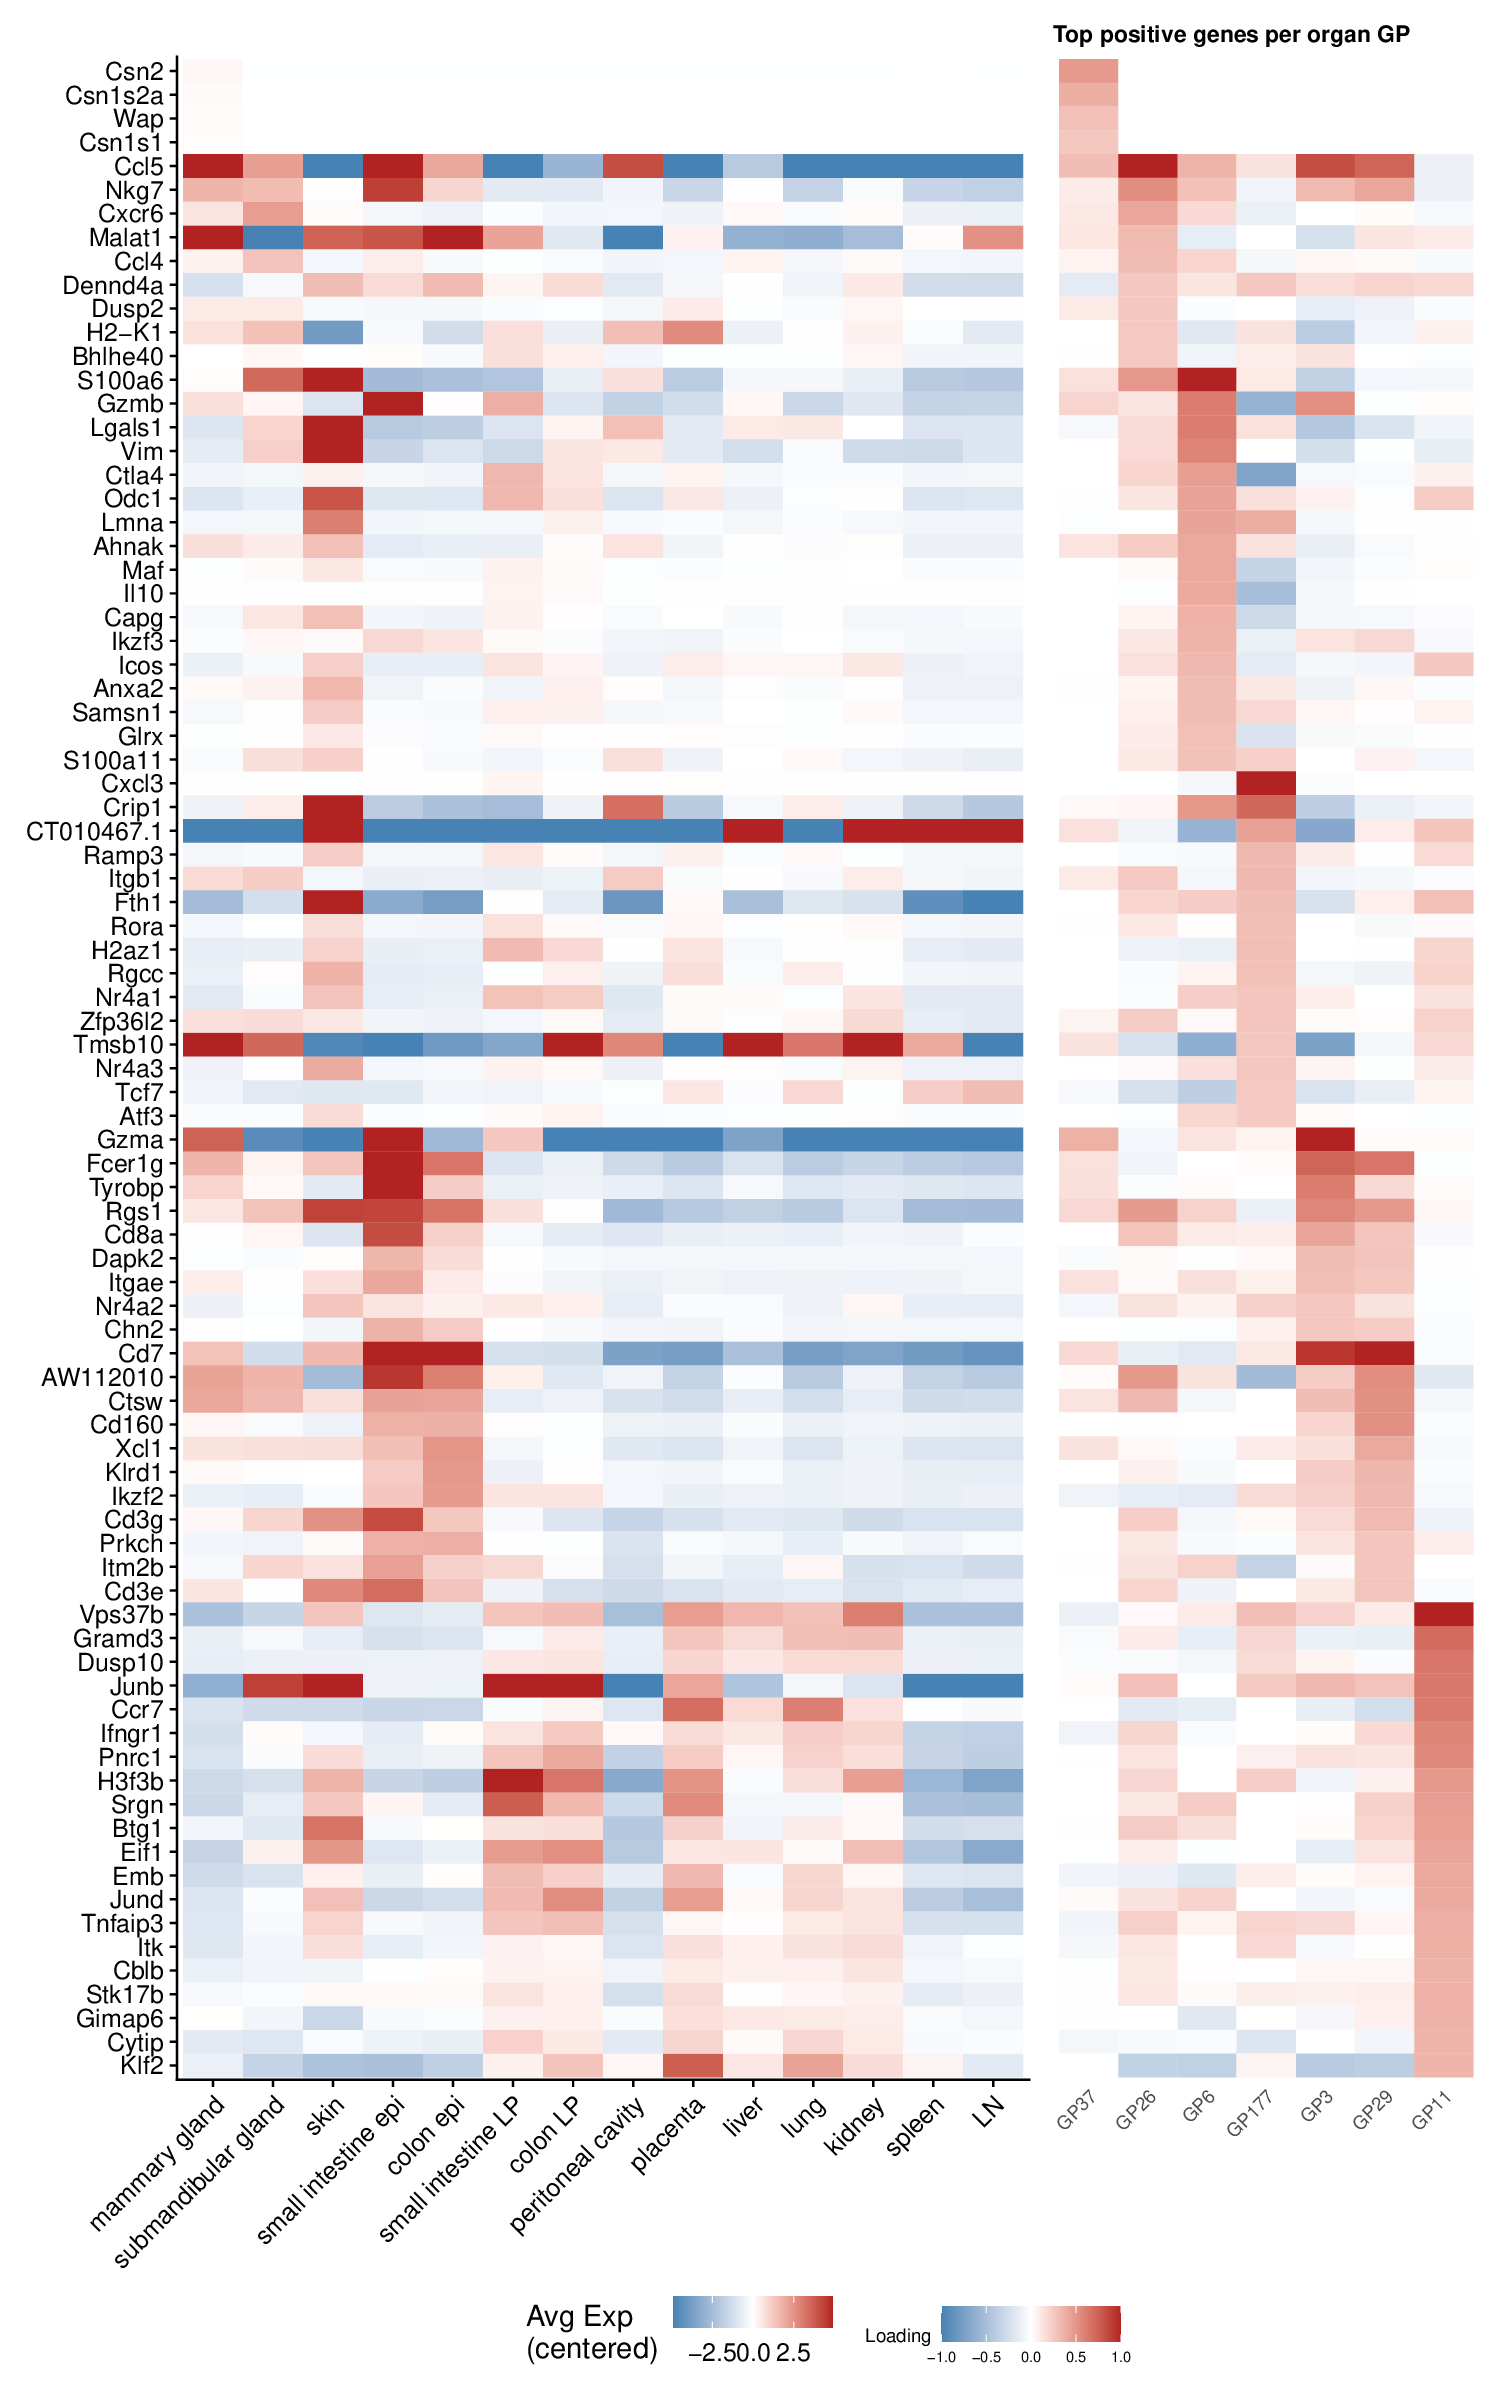
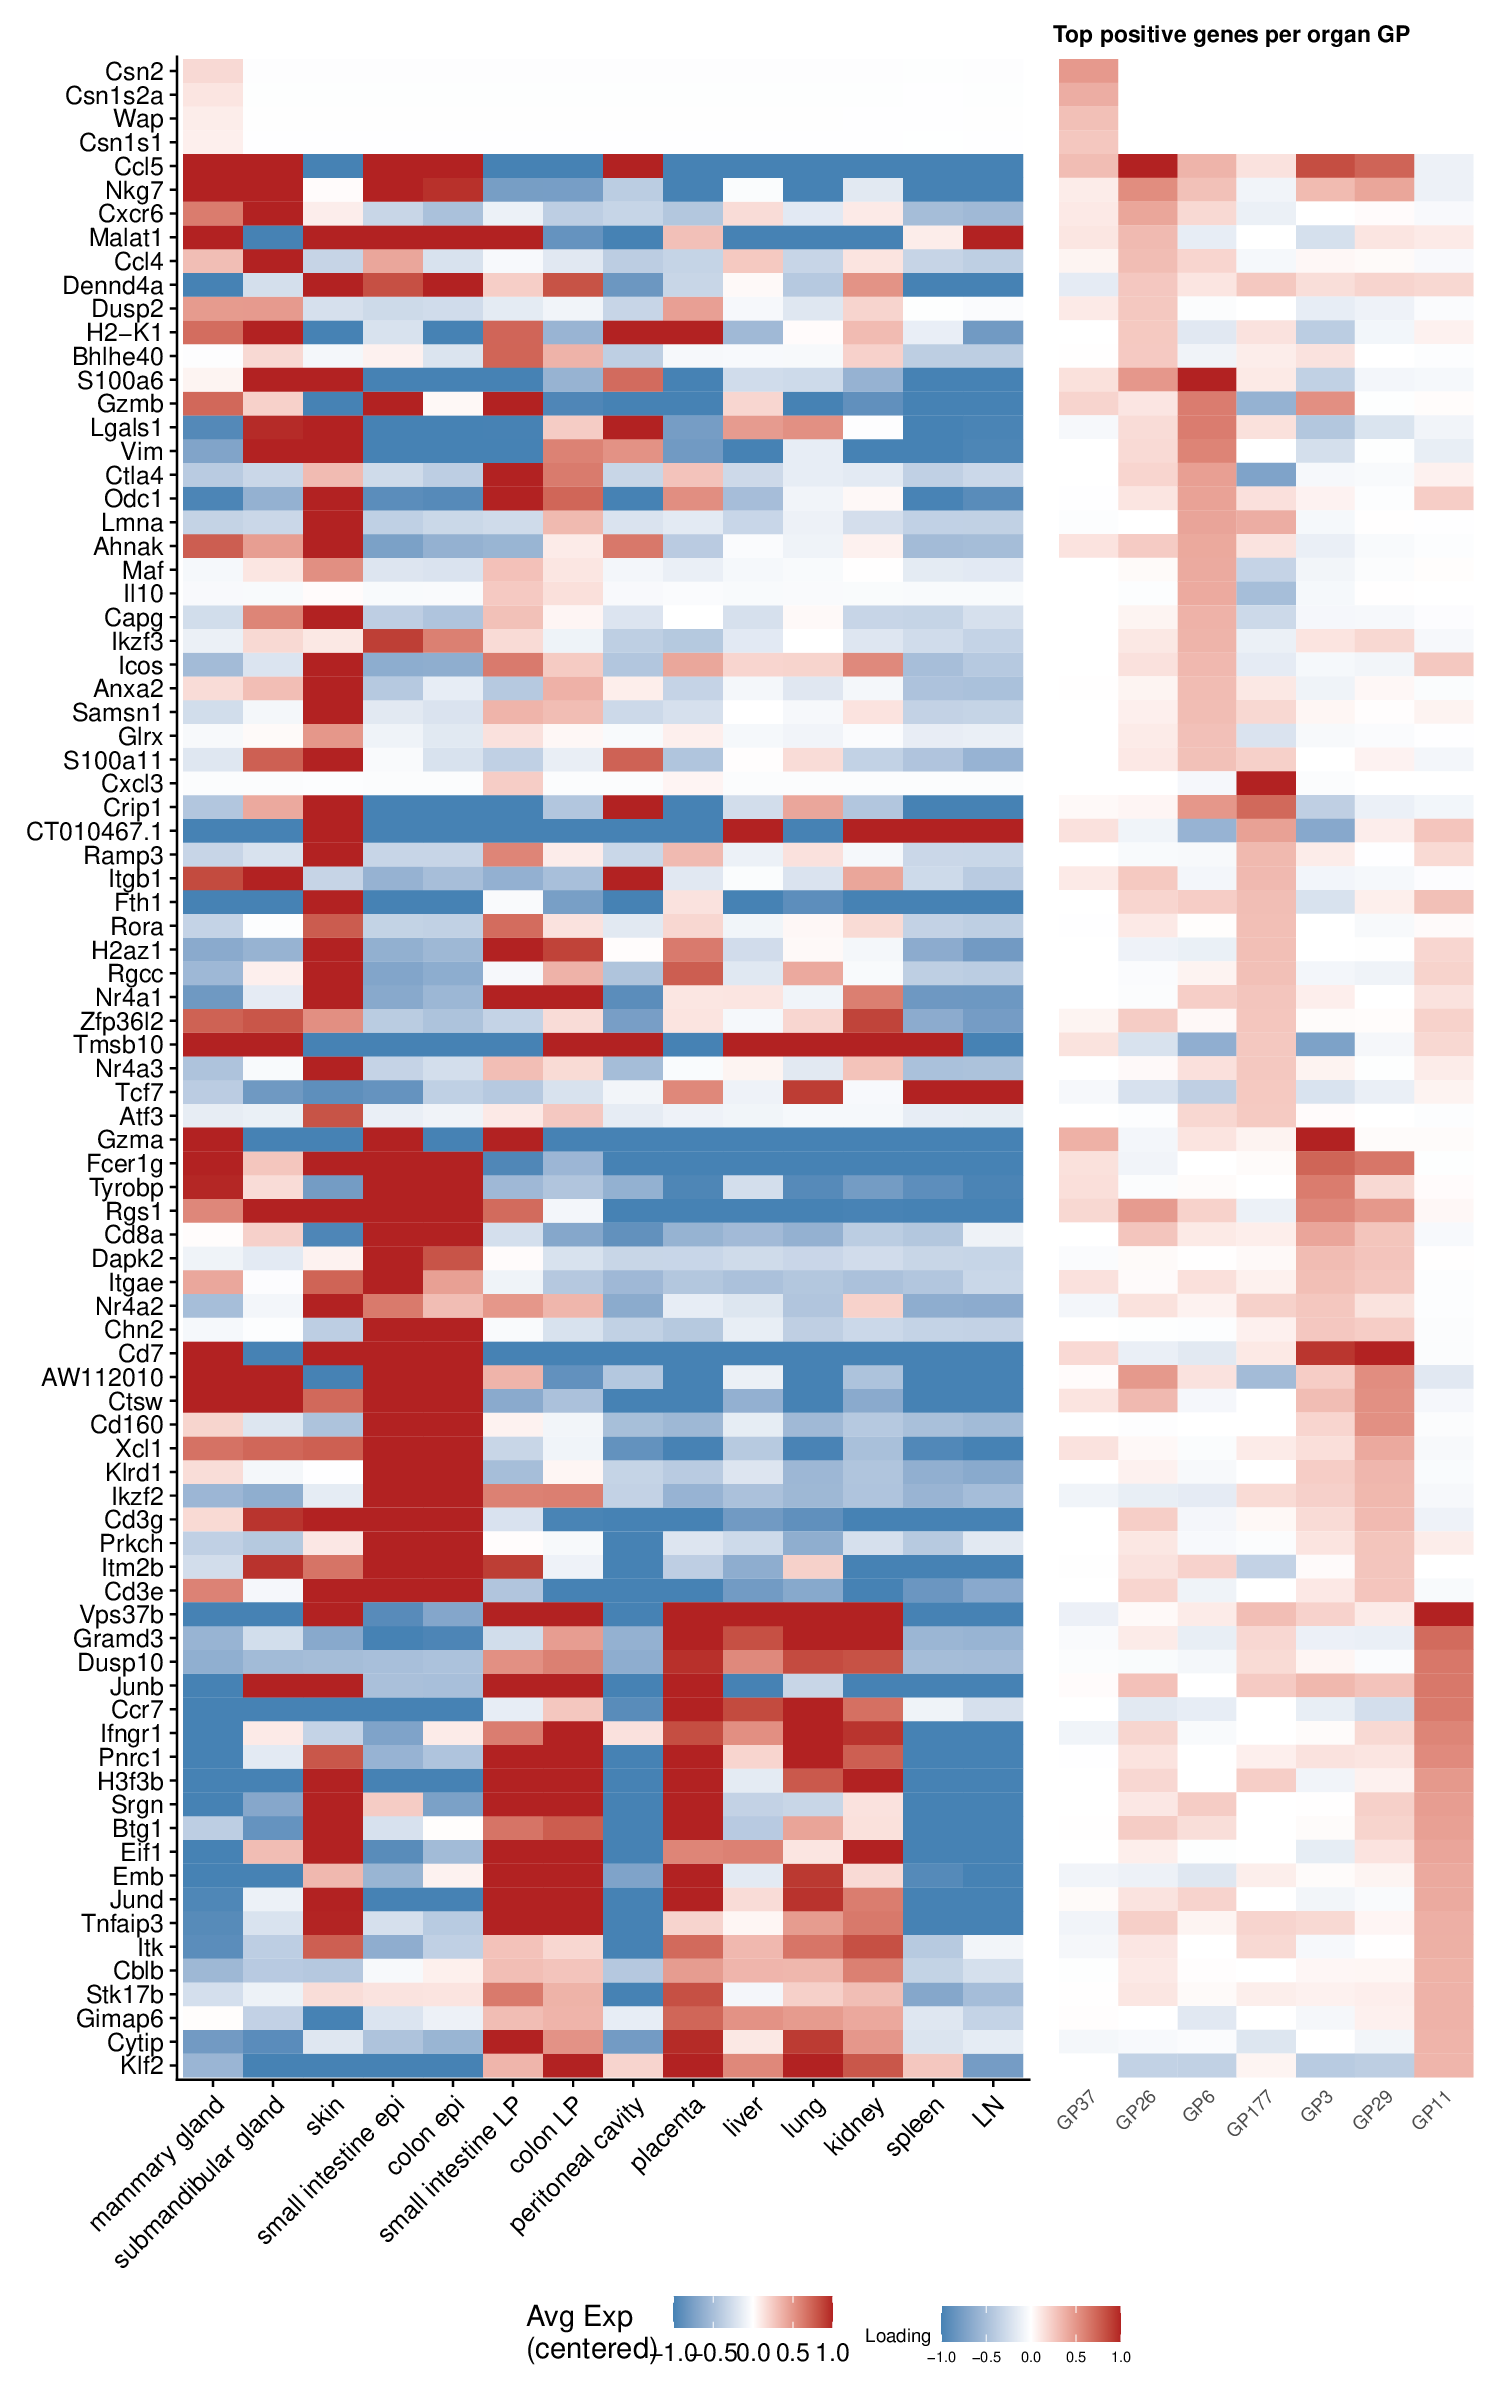
Fig 5c: clip centered-expression color scale to [-1, 1]
Tighten the left-panel color limits from the 95th-percentile cap to a fixed
[-1, 1] (oob squished) so the organ-specific expression patterns read clearly
instead of washing out.

diff --git a/docs/Figure5.html b/docs/Figure5.html
@@ -518,15 +518,15 @@ project makes it easier to run your code on other machines.</p>
 <div class="panel panel-default">
 <div class="panel-heading">
 <p class="panel-title">
-<a data-toggle="collapse" data-parent="#workflowr-checks" href="#strongRepositoryversionstrongahrefhttpsgithubcomAgueroZZimmgenTGPanalysistreec78e3cda5daf1677d4fa4c862ba207e842dc6c3etargetblankc78e3cda">
+<a data-toggle="collapse" data-parent="#workflowr-checks" href="#strongRepositoryversionstrongahrefhttpsgithubcomAgueroZZimmgenTGPanalysistree3577da1314e0b658cbf4fd27f459ded4dd3dd88etargetblank3577da1a">
 <span class="glyphicon glyphicon-ok text-success"
 aria-hidden="true"></span> <strong>Repository version:</strong>
-<a href="https://github.com/AgueroZZ/immgenT-GP-analysis/tree/c78e3cda5daf1677d4fa4c862ba207e842dc6c3e" target="_blank">c78e3cd</a>
+<a href="https://github.com/AgueroZZ/immgenT-GP-analysis/tree/3577da1314e0b658cbf4fd27f459ded4dd3dd88e" target="_blank">3577da1</a>
 </a>
 </p>
 </div>
 <div
[2 lines of base64/hex data omitted]
 class="panel-collapse collapse">
 <div class="panel-body">
 <p>
@@ -536,7 +536,7 @@ reproducibility.
 </p>
 <p>
 The results in this page were generated with repository version
-<a href="https://github.com/AgueroZZ/immgenT-GP-analysis/tree/c78e3cda5daf1677d4fa4c862ba207e842dc6c3e" target="_blank">c78e3cd</a>.
+<a href="https://github.com/AgueroZZ/immgenT-GP-analysis/tree/3577da1314e0b658cbf4fd27f459ded4dd3dd88e" target="_blank">3577da1</a>.
 See the <em>Past versions</em> tab to see a history of the changes made
 to the R Markdown and HTML files.
 </p>
@@ -556,6 +556,7 @@ Ignored files:
     Ignored:    analysis/.DS_Store
     Ignored:    analysis/.Rhistory
     Ignored:    analysis/assets/.DS_Store
+    Ignored:    analysis/site_libs/
     Ignored:    code/.DS_Store
     Ignored:    data
     Ignored:    experiments/.DS_Store
@@ -698,6 +699,40 @@ Message
 </tr>
 </thead>
 <tbody>
+<tr>
+<td>
+Rmd
+</td>
+<td>
+<a href="https://github.com/AgueroZZ/immgenT-GP-analysis/blob/3577da1314e0b658cbf4fd27f459ded4dd3dd88e/analysis/Figure5.Rmd" target="_blank">3577da1</a>
+</td>
+<td>
+Ziang Zhang
+</td>
+<td>
[phone redacted]
+</td>
+<td>
+Fig 5c: center-only (no standardization), left panel as heatmap
+</td>
+</tr>
+<tr>
+<td>
+html
+</td>
+<td>
+<a href="https://rawcdn.githack.com/AgueroZZ/immgenT-GP-analysis/3577da1314e0b658cbf4fd27f459ded4dd3dd88e/docs/Figure5.html" target="_blank">3577da1</a>
+</td>
+<td>
+Ziang Zhang
+</td>
+<td>
[phone redacted]
+</td>
+<td>
+Fig 5c: center-only (no standardization), left panel as heatmap
+</td>
+</tr>
 <tr>
 <td>
 Rmd
@@ -1230,13 +1265,12 @@ dot_df_scaled &lt;- map_dfr(tissues_present, function(tissue) {
   # rev() because coord_flip() inverts factor level order (first level ends up at the bottom)
   dplyr::mutate(features.plot = factor(features.plot, levels = rev(heatmap_gene_order)))
 
-# colour clipped at the 95th percentile of |centered value| so mid-range genes
-# stay visible (a few high-expression genes otherwise dominate the scale)
-lim_c &lt;- as.numeric(quantile(abs(dot_df_scaled$avg.exp.c), 0.95, na.rm = TRUE))
+# colour clipped to [-1, 1] so mid-range genes stay visible (a few high-expression
+# genes otherwise dominate the scale)
 p_scaled &lt;- ggplot(dot_df_scaled, aes(x = features.plot, y = id)) +
   geom_tile(aes(fill = avg.exp.c)) +
   scale_fill_gradient2(low = &quot;steelblue&quot;, mid = &quot;white&quot;, high = &quot;firebrick&quot;, midpoint = 0,
-                       limits = c(-lim_c, lim_c), oob = scales::squish, name = &quot;Avg Exp\n(centered)&quot;) +
+                       limits = c(-1, 1), oob = scales::squish, name = &quot;Avg Exp\n(centered)&quot;) +
   coord_flip() +
   cowplot::theme_cowplot() +
   theme(axis.text.x = element_text(angle = 45, hjust = 1), axis.title.x = element_blank(), axis.title.y = element_blank())
@@ -1288,6 +1322,17 @@ Date
 <tbody>
 <tr>
 <td>
+<a href="https://github.com/AgueroZZ/immgenT-GP-analysis/blob/3577da1314e0b658cbf4fd27f459ded4dd3dd88e/docs/assets/Figure5/5c.png" target="_blank">3577da1</a>
+</td>
+<td>
+Ziang Zhang
+</td>
+<td>
[phone redacted]
+</td>
+</tr>
+<tr>
+<td>
 <a href="https://github.com/AgueroZZ/immgenT-GP-analysis/blob/2873ad24b49a4e522ffd5332f22a1e706eeb7083/docs/assets/Figure5/5c.png" target="_blank">2873ad2</a>
 </td>
 <td>
@@ -1308,11 +1353,10 @@ GPs. Genes are the union of the top 20 positively scoring genes per GP
 diagonally by each gene’s dominant GP and then by descending score.
 Left, heatmap of mean expression across 14 organs,
 <strong>centered</strong> per gene (each gene’s across-organ mean
-subtracted; not standardized / not divided by SD), with color clipped at
-the 95th percentile of the centered magnitude so mid-range genes stay
-visible; right, heatmap of the per-GP scaled gene scores for the same
-genes across the seven GPs, centered at zero (blue, negative; red,
-positive).</p>
+subtracted; not standardized / not divided by SD), with color clipped to
+[-1, 1] so mid-range genes stay visible; right, heatmap of the per-GP
+scaled gene scores for the same genes across the seven GPs, centered at
+zero (blue, negative; red, positive).</p>
 </div>
 </div>
 <div id="fig4d" class="section level2">